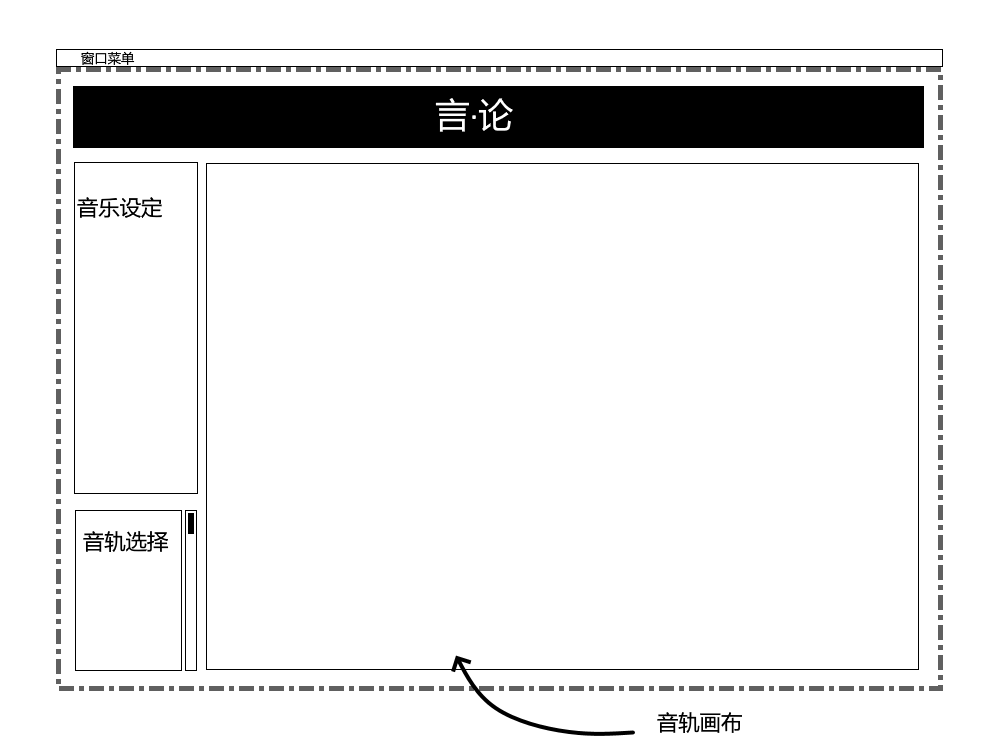
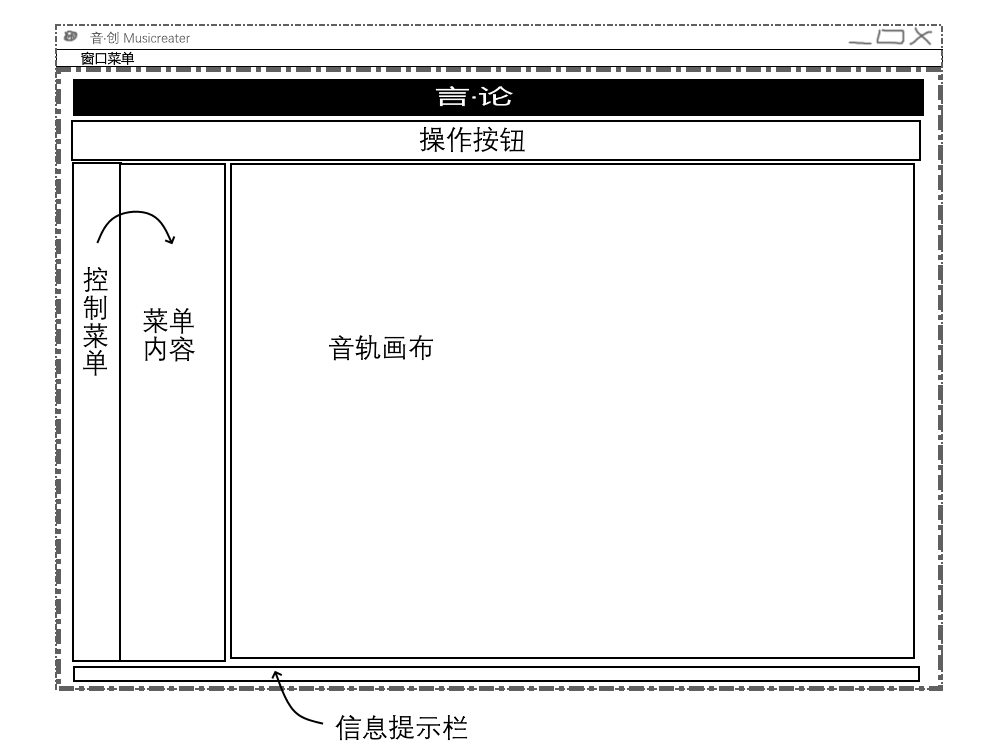
重新设计UI，准备进行国际化支持

diff --git a/languages/lang.py b/languages/lang.py
@@ -1,20 +1,64 @@
 # -*- coding:utf-8 -*-
-
+'''对于音·创的语言支持兼语言文件编辑器'''
 
 DEFAULTLANGUAGE = 'zh-CN'
 
 LANGUAGELIST = {
+    # 第一个是语言的中文名称和地区
+    # 第二个是语言的英文名称和地区
+    # 第三个是语言的本地名称和地区
     'zh-CN': (
         "简体中文 中国大陆",
-        "Simplified Chinese, China Mainland",
+        "Simplified Chinese, Chinese Mainland",
+        "简体中文 中国大陆",
     ),
+    'zh-TW': (
+        "繁体中文 台湾省",
+        "Traditional Chinese, Taiwan Province",
+        "正體中文,台灣省",
+    ),
+    # 'zh-HK': (
+    #     "简体中文 中国大陆",
+    #     "Traditional Chinese, the Hong Kong Special Administrative Region",
+    #     "繁體中文,香港特別行政區",
+    # ),
+    # 'zh-MO': (
+    #     "简体中文 中国大陆",
+    #     "Traditional Chinese, the Macao Special Administrative Region",
+    #     "繁體中文,澳門特別行政區",
+    # ),
     'en-GB': (
-        "英式英语 大不列颠",
-        "British English, Great Britain",
+        "英语 英国",
+        "British English, the United Kingdom",
+        "British English, the United Kingdom",
     ),
 }
 
-if DEFAULTLANGUAGE == 'zh-CN':
-    from languages.zhCN import READABLETEXT
-elif DEFAULTLANGUAGE == 'en-GB':
-    from languages.enGB import READABLETEXT
+# 对于旧版本音·创的语言支持
+# 重构之后将停止使用
+from languages.zhCN import READABLETEXT
+
+if DEFAULTLANGUAGE in LANGUAGELIST.keys():
+    with open('./languages/'+DEFAULTLANGUAGE+'.lang','r',encoding='utf-8') as languageFile :
+        _text = []
+        for line in languageFile:
+            _text.append(line)
+    _TEXT = _text.copy()
+else:
+    raise KeyError(f"无法打开默认语言{DEFAULTLANGUAGE}")
+
+
+
+
+if __name__ == '__main__':
+    # 启动语言编辑器
+    import tkinter as tk
+
+    root = tk.Tk()
+
+    root.geometry('900x600')
+
+
+
+
+

diff --git a/msctLib/display.py b/msctLib/display.py
@@ -71,6 +71,8 @@ class disp:
         self.setTitle(title,debug)
         self.setGeometry(geometry,debug)
         self.setIcon(*iconbitmap,debug=debug)
+
+
         self.setMenu(menuWidget)
 
         self.initWidget(wordView,buttons,settingBox,notemap)
@@ -171,6 +173,47 @@ class disp:
 
     def setWordView(self, text:str) -> None:
         self._wordviewBar['text'] = text
+
+
+
+
+def authorMenu(authors:tuple = (('金羿','EillesWan@outlook.com'),('诸葛亮与八卦阵','474037765'))):
+    '''自定义作者界面'''
+    from languages.lang import 
+    aabw = tk.Tk()
+    aabw.title(READABLETEXT[9])
+    aabw.geometry('550x600')  # 像素
+    tk.Label(aabw, text='', font=('', 15)).pack()
+    tk.Label(aabw, text=READABLETEXT[10], font=('', 35)).pack()
+    tk.Label(aabw, text=READABLETEXT[11].format(VER[1] + VER[0]), font=('', 15)).pack()
+    # pack 的side可以赋值为LEFT  RTGHT  TOP  BOTTOM
+    # grid 的row 是列数、column是行排，注意，这是针对空间控件本身大小来的，即是指向当前控件的第几个。
+    # place的 x、y是(x,y)坐标
+    # pic = tk.PhotoImage(file='./bin/pics/Ryoun_S.png')
+    # tk.Label(aabw, image=pic, width=200, height=200).pack()
+    # del pic
+    tk.Label(aabw, text='', font=('', 5)).pack()
+    tk.Label(aabw, text=READABLETEXT[12], font=('', 20)).pack()
+    tk.Label(aabw, text='', font=('', 15)).pack()
+    for i in READABLETEXT[15]:
+        tk.Label(aabw, text=i[0], font=('', 17 if i[1] else 15, 'bold' if i[1] else '')).pack()
+    tk.Label(aabw, text='', font=('', 5)).pack()
+    if DEFAULTLANGUAGE != 'zh-CN':
+        tk.Label(aabw, text=READABLETEXT[16], font=('', 15)).pack()
+        for i in READABLETEXT['Translator']:
+            tk.Label(aabw, text=i[0], font=('', 17 if i[1] else 15, 'bold' if i[1] else '')).pack()
+
+    def exitAboutWindow():
+        aabw.destroy()
+
+    tk.Button(aabw, text=READABLETEXT[13], command=exitAboutWindow).pack()
+
+    aabw.mainloop()
+
+
+
+
+
 
 
 
